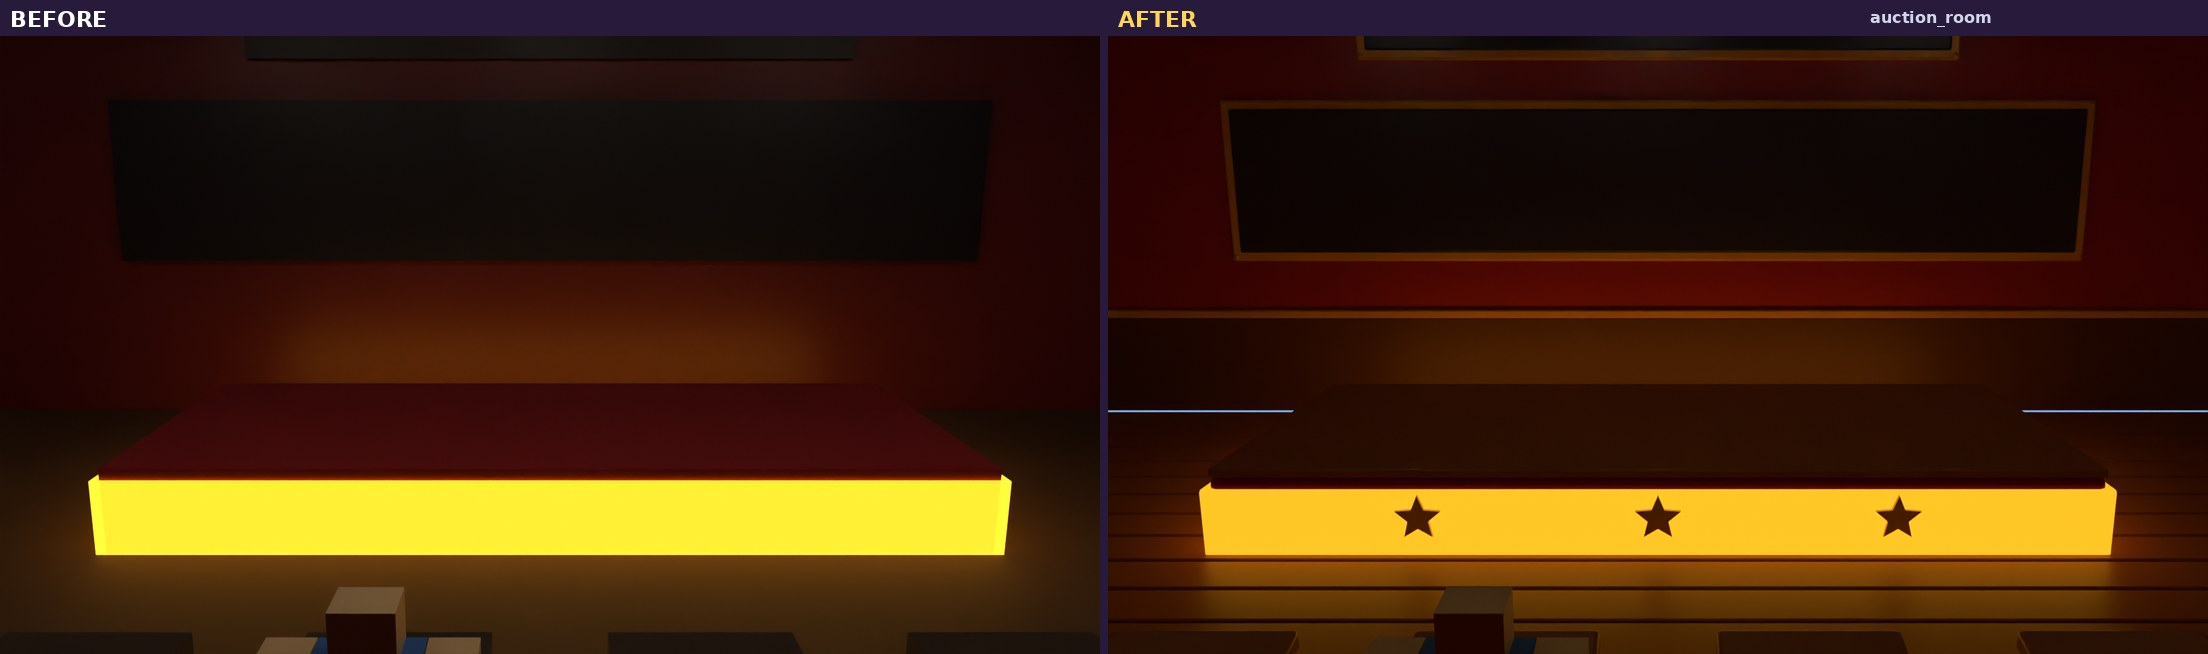
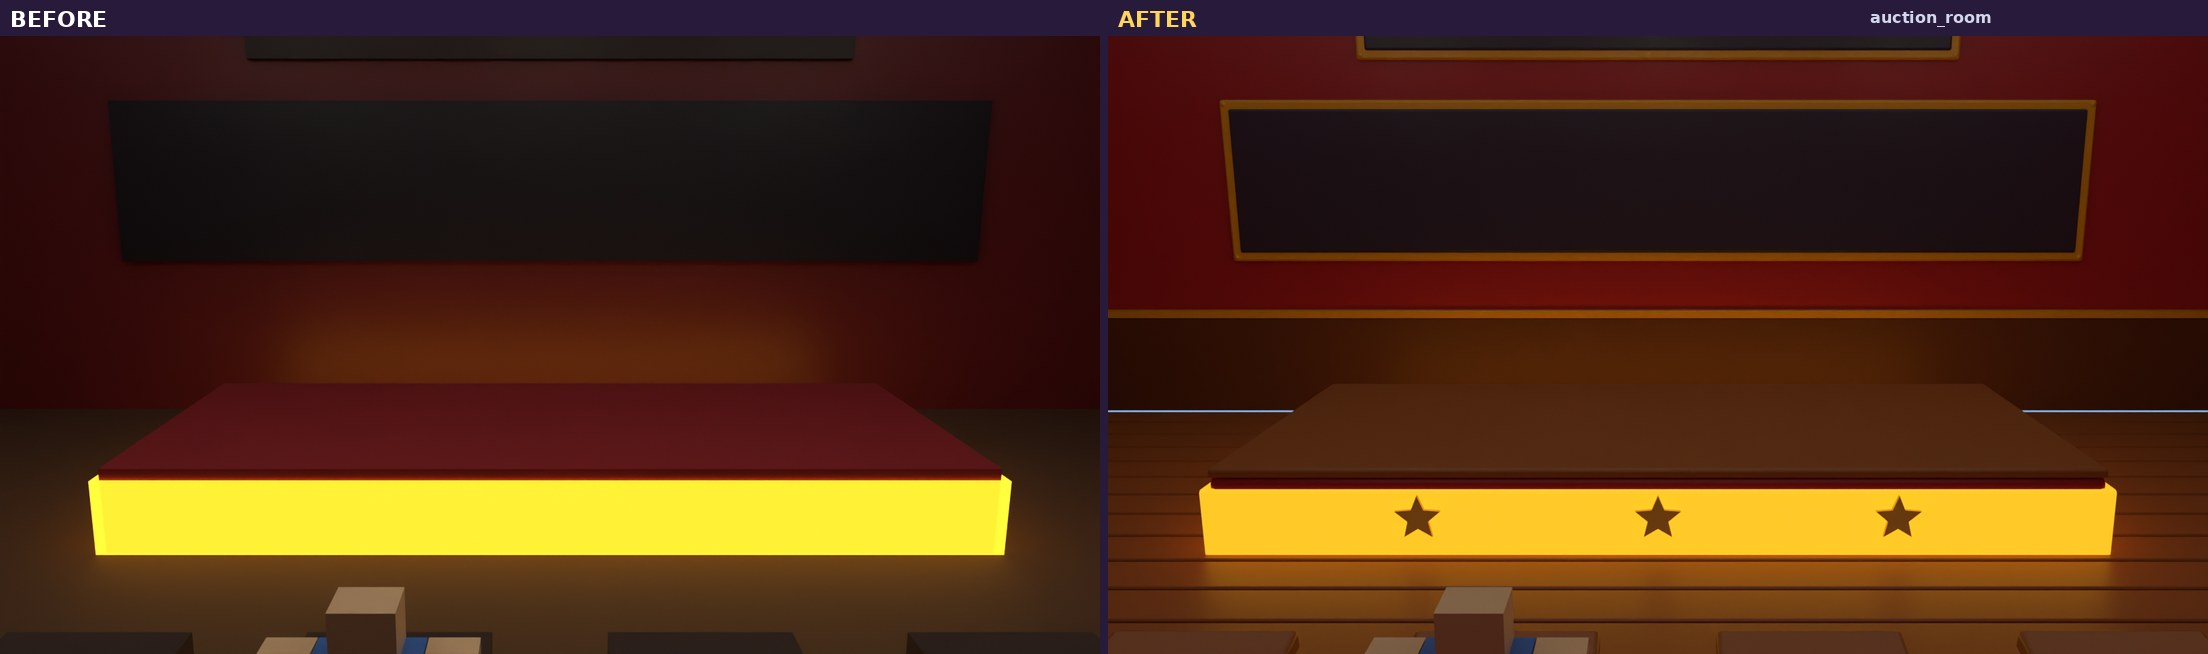
World overhaul: auction room re-rendered (before and after) with the ambient fill
Claude-Session: https://claude.ai/code/session_01Jieur9Bqiay9EDrebX1tpj

diff --git a/world_overhaul/REPORT.md b/world_overhaul/REPORT.md
@@ -1,6 +1,6 @@
 # Rags to Riches - new look for the whole world (report)
 
-Written 2026-10-04 23:45. Start here; everything else is linked from this page.
+Written 2026-10-04 23:47. Start here; everything else is linked from this page.
 
 ## In short
 

diff --git a/world_overhaul/PROGRESS.md b/world_overhaul/PROGRESS.md
@@ -1,7 +1,7 @@
 # Progress
 
 If you (or I after a restart) pick this up: read this file and STYLE_GUIDE.md first.
-Updated: 2026-10-04 23:42
+Updated: 2026-10-04 23:47
 
 ## Current step
 
